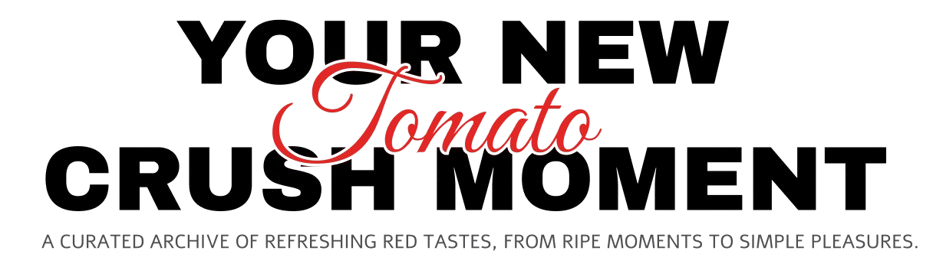
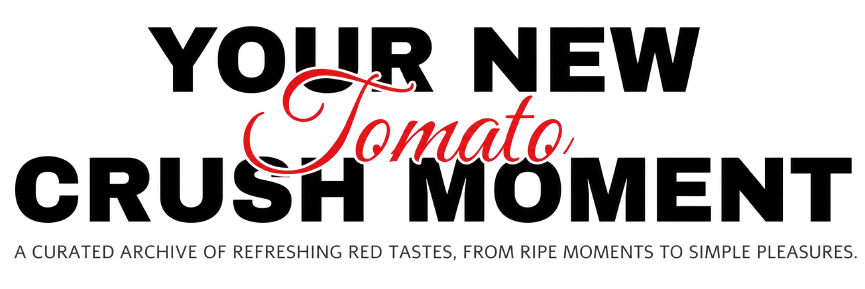
1

Changed region(s): [[0.0, 0.0599, 0.9988, 0.809], [0.0, 0.839, 0.9988, 0.9288]]

diff --git a/index.html b/index.html
@@ -5,7 +5,7 @@
     <meta name="viewport" content="width=device-width, initial-scale=1.0">
     <title>Your New Tomato Crush Moment</title>
     <style>
-        @import url('https://fonts.googleapis.com/css2?family=Noto+Sans+KR:wght@100..900&display=swap');
+        @import url('https://fonts.googleapis.com/css2?family=Noto+Sans+KR:wght@300;400;500;700;900&display=swap');
 
         * {
             margin: 0;
@@ -16,25 +16,38 @@
 
         body {
             overflow: hidden;
+            background-color: #ffffff;
         }
 
         section {
             position: relative;
             width: 100%;
-            min-height: 100vh;
-            background-color: #ffffff;
+            height: 100vh;
             display: flex;
-            justify-content: space-between;
             align-items: center;
-            padding: 100px;
+            padding: 0 4vw; 
         }
 
+        /* 우측 하단 연두색 배경 */
+        .circle {
+            position: absolute;
+            top: 0;
+            left: 0;
+            width: 100%;
+            height: 100%;
+            background-color: #a4ce3a;
+            clip-path: ellipse(40% 70% at 100% 100%);
+            transition: background 0.5s ease;
+            z-index: 1;
+        }
+
+        /* 헤더 / 내비게이션 */
         header {
             position: absolute;
             top: 0;
             left: 0;
             width: 100%;
-            padding: 30px 100px;
+            padding: 1.5vw 4vw; 
             display: flex;
             justify-content: space-between;
             align-items: center;
@@ -42,18 +55,18 @@
         }
 
         header .logo {
-            position: relative;
-            max-width: 80px;
+            width: 4.5vw; 
+            min-width: 45px;
         }
 
         header .logo img {
             width: 100%;
-            height: auto;
+            display: block;
         }
 
         header ul {
-            position: relative;
             display: flex;
+            gap: 2vw;
         }
 
         header ul li {
@@ -61,14 +74,18 @@
         }
 
         header ul li a {
-            display: inline-block;
-            color: #333;
-            margin-left: 40px;
+            color: #777;
             text-decoration: none;
-            font-size: 16px;
+            font-size: clamp(10px, 1vw, 15px); 
             font-weight: 500;
+            transition: color 0.3s;
         }
 
+        header ul li a:hover {
+            color: #111;
+        }
+
+        /* 메인 콘텐츠 영역 */
         .content {
             position: relative;
             width: 100%;
@@ -78,113 +95,126 @@
             z-index: 10;
         }
 
+        /* 텍스트 영역 */
         .content .textBox {
             position: relative;
-            max-width: 650px;
+            width: 50%; 
+            margin-top: -3vw; 
         }
 
         .content .textBox .titleImg {
-            max-width: 620px; 
-            width: 200%;
+            width: 100%; 
             height: auto;
             display: block;
         }
 
         .content .textBox a.btn {
             display: inline-block;
-            margin-top: 35px;
-            padding: 14px 40px;
-            background: #e52e25;
+            margin-top: 2vw;
+            padding: 0.8vw 2vw;
+            background: #e32626;
             color: #fff;
             border-radius: 40px;
             font-weight: 700;
             letter-spacing: 1px;
             text-decoration: none;
-            text-transform: uppercase;
-            font-size: 16px;
+            font-size: clamp(10px, 1vw, 14px);
+            transition: 0.3s;
+            box-shadow: 0 4px 15px rgba(227, 38, 38, 0.2);
         }
 
+        .content .textBox a.btn:hover {
+            background: #c21d1d;
+            transform: translateY(-2px);
+        }
+
+        /* 메인 제품 이미지 영역 */
         .content .imgBox {
             position: relative;
-            width: 600px;
+            width: 50%; 
             display: flex;
-            justify-content: flex-end;
+            justify-content: center;
             align-items: center;
-            padding-right: 30px;
         }
 
         .content .imgBox .mainProduct {
-            max-width: 440px;
+            width: 60%; 
             height: auto;
             position: relative;
             z-index: 2;
+            transform: rotate(-20deg); 
+            transition: transform 0.3s ease; 
         }
 
+        /* 가격 태그 */
         .content .imgBox .priceTag {
             position: absolute;
-            bottom: -50px;
-            right: 10px;
-            max-width: 150px;
-            height: auto;
+            bottom: -3vw; 
+            right: 4vw;   
+            width: 30%;   
             z-index: 3;
+            transform: rotate(10deg); 
+            transition: opacity 0.3s ease; /* 가격표 바뀔 때 부드러운 효과 (선택사항) */
         }
 
+        /* 하단 썸네일 메뉴 */
         .thumb {
             position: absolute;
-            bottom: 40px;
-            left: 40%;
-            transform: translateX(-50%);
+            bottom: 2vw;
+            left: 4vw; 
             display: flex;
             align-items: flex-end;
+            gap: 1.2vw; 
             z-index: 20;
         }
 
         .thumb li {
             list-style: none;
-            margin: 0 15px;
             cursor: pointer;
-            transition: .3s;
+            transition: 0.3s;
         }
 
         .thumb li:hover {
-            transform: translateY(-15px);
+            transform: translateY(-8px);
         }
 
         .thumb li img {
-            max-height: 85px;
-            width: auto;
+            width: 4vw; 
+            min-width: 35px;
+            height: auto;
         }
 
+        .thumb li.tomatoma img {
+            width: 3.5vw; 
+            min-width: 30px;
+        }
+
+        /* 우측 SNS 아이콘 */
         .sci {
             position: absolute;
             top: 50%;
-            right: 30px;
+            right: 2vw; 
             transform: translateY(-50%);
             display: flex;
             flex-direction: column;
             align-items: center;
+            gap: 1.5vw;
             z-index: 100;
         }
 
         .sci li {
             list-style: none;
-            margin: 15px 0;
         }
 
         .sci li a img {
-            width: 26px;
+            width: 1.2vw;
+            min-width: 16px;
             height: auto;
+            transition: transform 0.3s;
         }
 
-        .circle {
-            position: absolute;
-            top: 0;
-            left: 0;
-            width: 100%;
-            height: 100%;
-            background-color: #9bd435; /* 초기 토마토 연두색 */
-            clip-path: circle(600px at right 800px);
-            transition: background 0.5s ease; /* 색상이 부드럽게 바뀌는 효과 */
+        .sci li a:hover img {
+            transform: scale(1.2);
         }
     </style>
 </head>
@@ -211,22 +241,26 @@
 
             <div class="imgBox">
                 <img src="./imgs/tomato.3.png" alt="Tomato Crush" class="mainProduct">
-                <img src="./imgs/tomatoma2.png" alt="800원" class="priceTag">
+                <img src="./imgs/tomatoma2.png" alt="Price" class="priceTag">
             </div>
         </div>
 
         <ul class="thumb">
             <li>
+                <img src="./imgs/mychu.png" alt="mychu" 
+                     onclick="imgSlider('./imgs/mychu.png'); changeCircleColor('#66C142'); changeTitle('./imgs/title2.png'); changeLink('https://www.crown.co.kr/product/view?idx=316'); changePriceTag('./imgs/tomatoma2.png')">
+            </li>
+            <li>
                 <img src="./imgs/pretz1.png" alt="pretz1" 
-                     onclick="imgSlider('./imgs/tomato.3.png'); changeCircleColor('#9bd435'); changeTitle('./imgs/title2.png')">
+                     onclick="imgSlider('./imgs/tomato.3.png'); changeCircleColor('#a4ce3a'); changeTitle('./imgs/title2.png'); changeLink('https://haitaimall.co.kr/product/1/406/category/34/display/1/'); changePriceTag('./imgs/tomatoma2.png')">
             </li>
             <li>
                 <img src="./imgs/candy.png" alt="candy" 
-                     onclick="imgSlider('./imgs/candy.png'); changeCircleColor('#08B326'); changeTitle('./imgs/title2.png')">
+                     onclick="imgSlider('./imgs/candy.png'); changeCircleColor('#08B326'); changeTitle('./imgs/title2.png'); changeLink('#'); changePriceTag('./imgs/candy2.png')">
             </li>
-            <li>
-                <img src="./imgs/mychu.png" alt="mychu" 
-                     onclick="imgSlider('./imgs/mychu.png'); changeCircleColor('#66C142'); changeTitle('./imgs/title2.png')">
+            <li class="tomatoma">
+                <img src="./imgs/tomatoma.png" alt="tomatoma" 
+                     onclick="imgSlider('./imgs/tomatoma.png'); changeCircleColor('#fbb03b'); changeTitle('./imgs/title2.png'); changeLink('#'); changePriceTag('./imgs/tomatoma2.png')">
             </li>
         </ul>
 
@@ -238,17 +272,37 @@
     </section>
 
     <script>
+        // 메인 제품 이미지 변경
         function imgSlider(anything) {
             document.querySelector('.mainProduct').src = anything;
         }
 
+        // 배경색 변경
         function changeCircleColor(color) {
             const circle = document.querySelector('.circle');
             circle.style.background = color;
         }
 
+        // 타이틀 이미지 변경
         function changeTitle(titleImgPath) {
             document.querySelector('.titleImg').src = titleImgPath;
+        }
+
+        // 버튼 링크 변경 함수
+        function changeLink(linkUrl) {
+            const btn = document.querySelector('.btn');
+            btn.href = linkUrl;
+            
+            if (linkUrl !== '#') {
+                btn.target = "_blank";
+            } else {
+                btn.target = "_self";
+            }
+        }
+
+        // 🌟 새로 추가된 가격표 이미지 변경 함수
+        function changePriceTag(priceImgPath) {
+            document.querySelector('.priceTag').src = priceImgPath;
         }
     </script>
 </body>